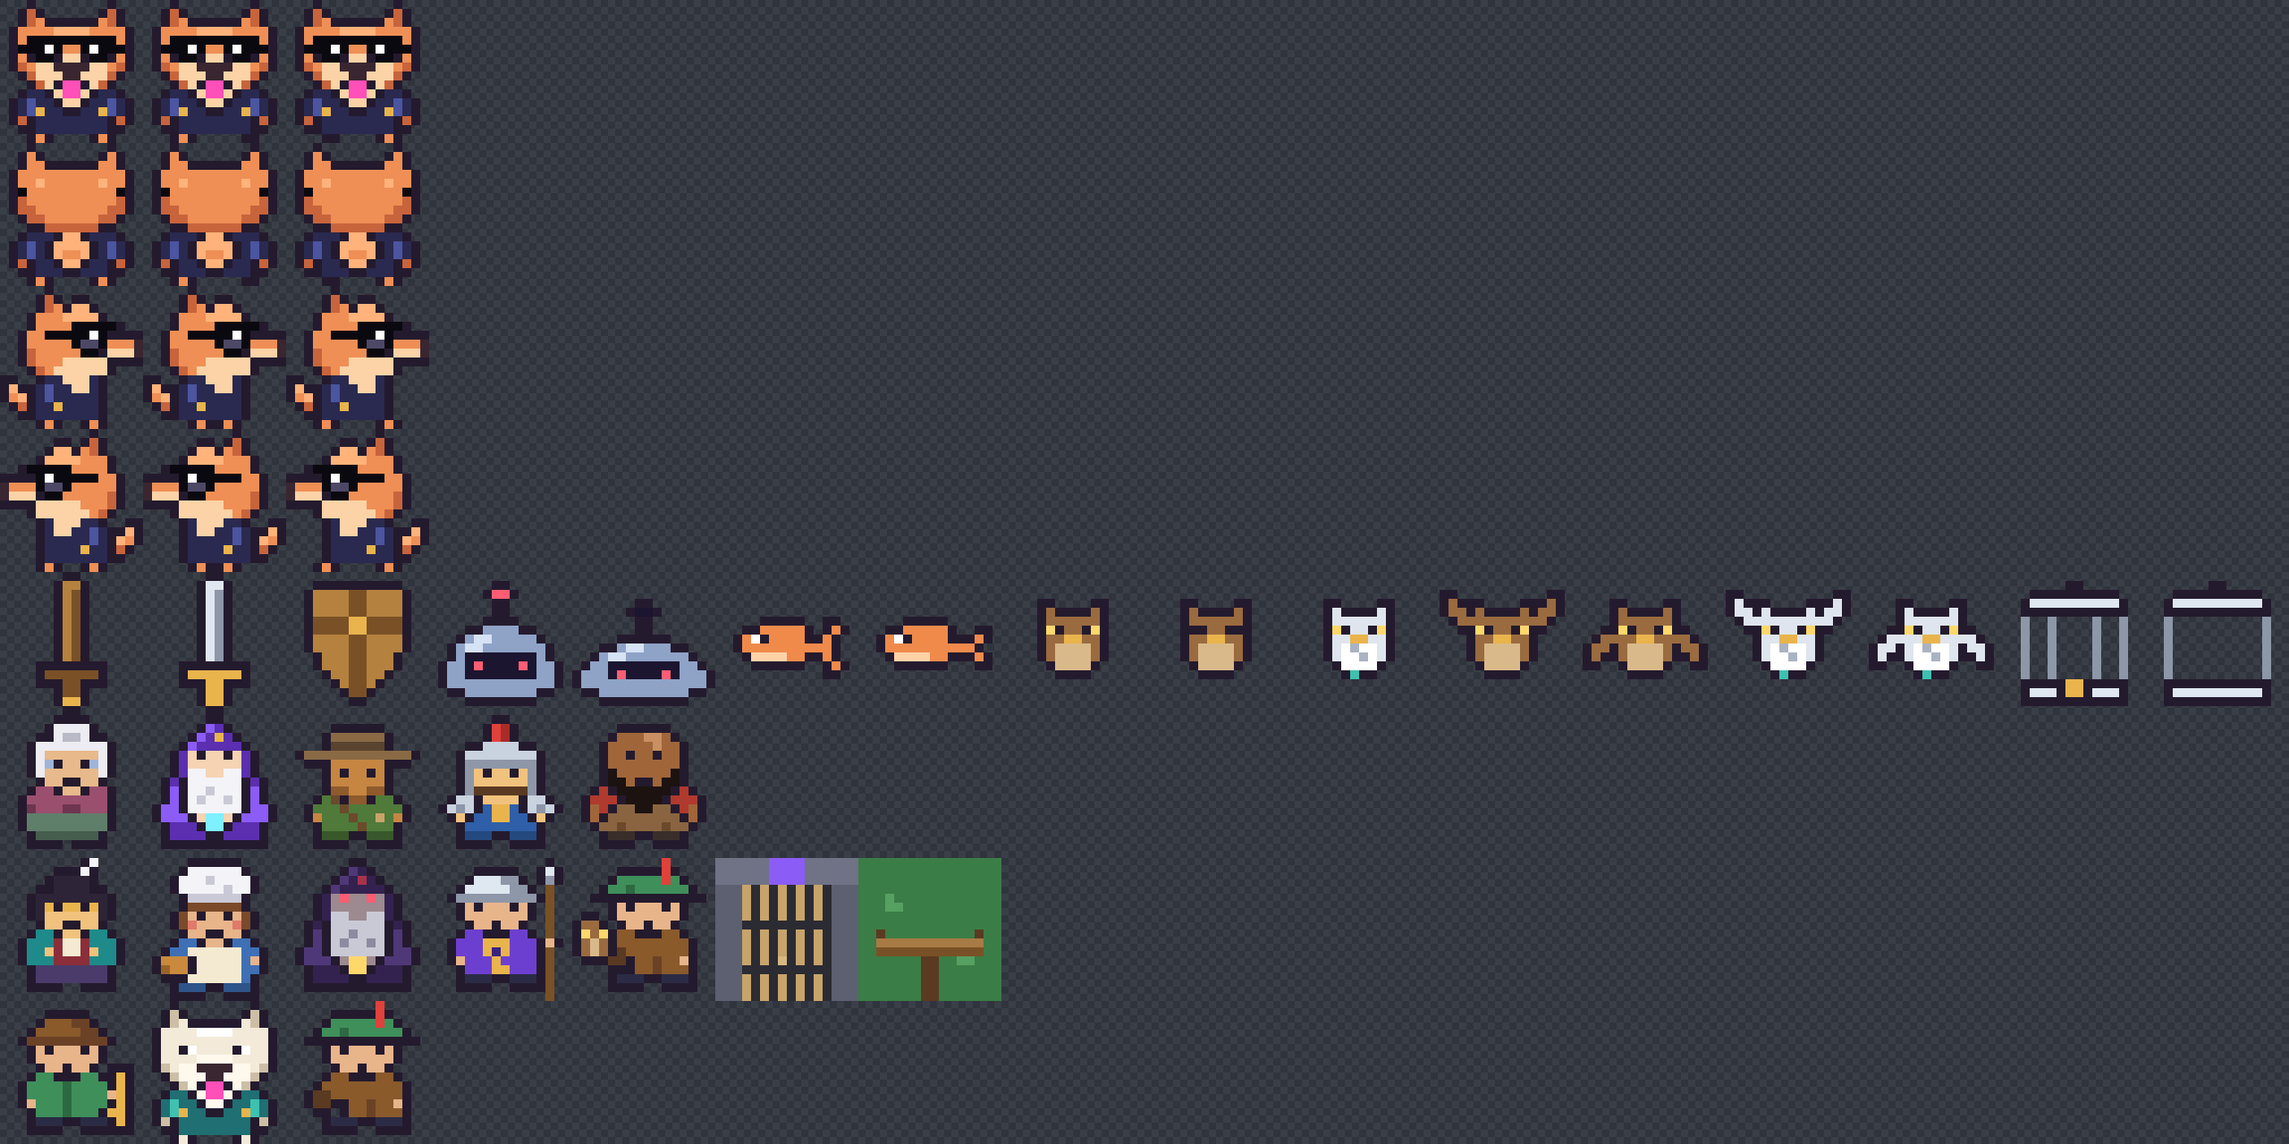
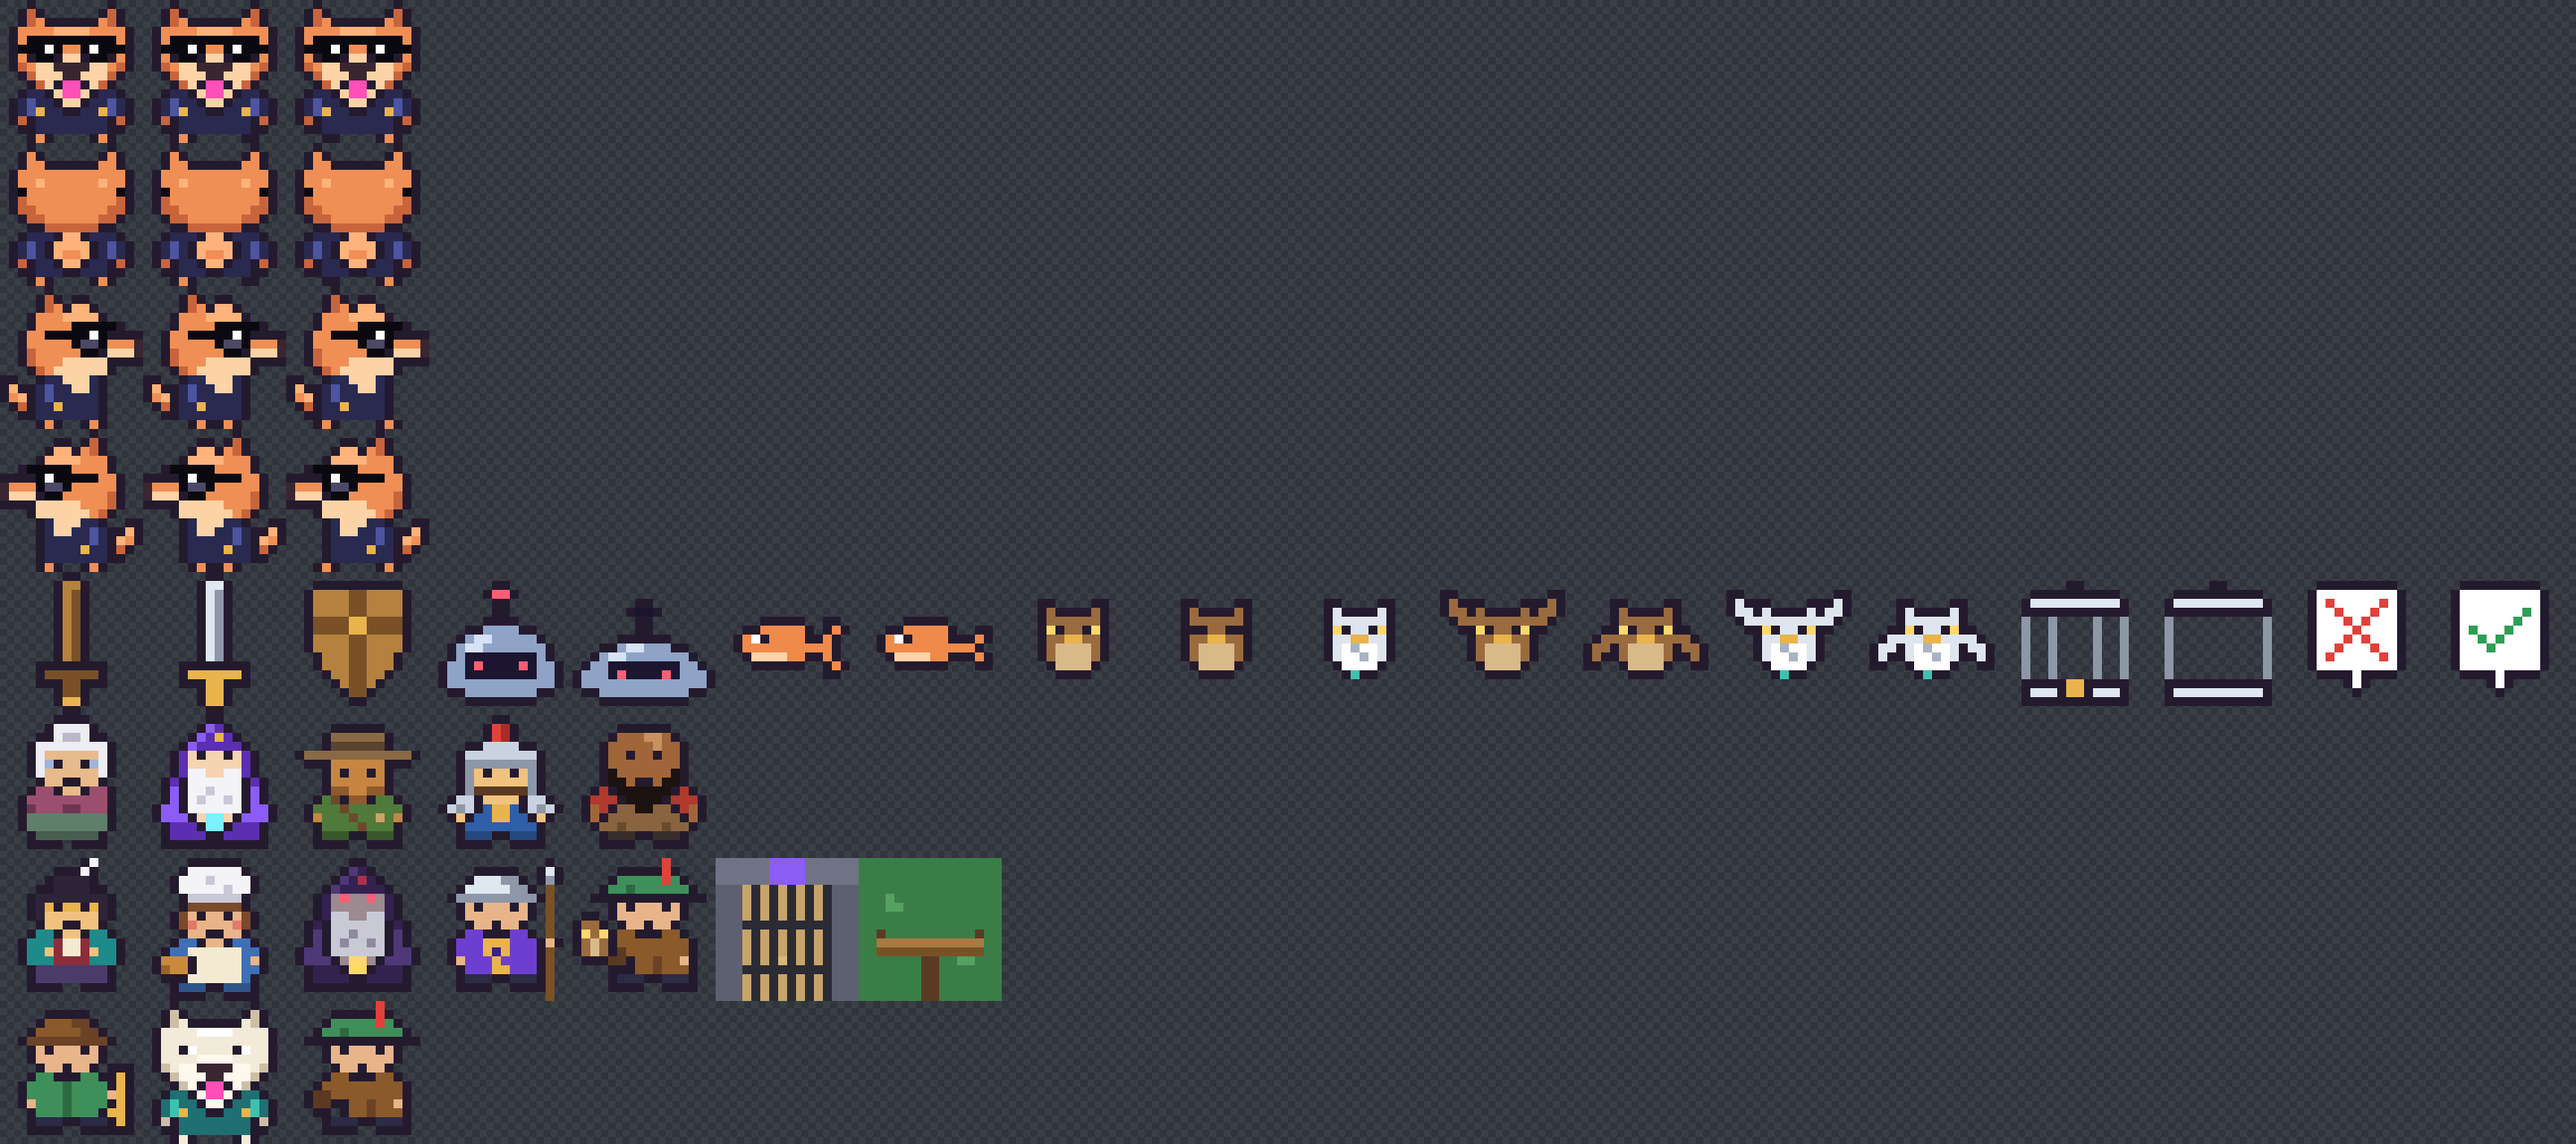
feat(game): an owl sent to the cage is followed there, and the keeper answers it
The game's view follows the Falconer's owl to the cage, where the keeper nods
and unlocks it, and then both owls back. The player's own owl is followed there
too, and is seen turned away with a shake of the head before it flies back.

Changed region(s): [[0.0, 0.0, 1.0, 1.0]]

diff --git a/app/src/game/scene.ts b/app/src/game/scene.ts
@@ -8,6 +8,7 @@ import { KNIGHT_QUOTA, defeated, hasSteel, type MonsterKind } from './quest-mach
 import { houseStage, type HouseStage } from './house-machine.ts'
 import { mochisOwlFound, owlAtLeast, owlStage } from './owl-machine.ts'
 import { catchOwl, readAviarySign, visitCage, visitPerch } from './owl-story.ts'
+import { OWL_TOOLS } from './owl.ts'
 import { CAGE_FLIGHT_MS, FLIGHT_MS, type PerchPhase } from './perch.ts'
 import {
   currentLetter,
@@ -122,6 +123,8 @@ const ITEM = {
   mochisOwlWingsDown: 13,
   cage: 14,
   cageOpen: 15,
+  keeperNo: 16,
+  keeperYes: 17,
 }
 
 /** Each kind of owl's frames: sitting, and with its wings up and down, which a flight swaps to make it flap. */
@@ -138,6 +141,12 @@ const OWL_SEAT = { x: 5, y: -8, hop: 14 }
 
 /** Mochi's owl rides on the dog's other side, and on the same shoulder of Mochi once it's back with them. */
 const MOCHIS_OWL_SEAT = { x: -5, y: -8 }
+
+/** Where an owl lands on the cage's roof, from the middle of the cage. */
+const CAGE_ROOF = { x: 0, y: -9 }
+
+/** The keeper's answer to an owl: where it shows above the keeper, and their nod or shake of the head. */
+const KEEPER_ANSWER = { lift: 14, nod: 3, shake: 2, ms: 90 }
 
 /** Where the Falconer's owl sits on their glove, from the middle of the Falconer. */
 const FALCONERS_GLOVE = { x: -6, y: 0 }
@@ -416,7 +425,7 @@ export class KingdomScene extends Phaser.Scene {
   /** The Falconer's owl in flight. On the glove it is part of the Falconer's own picture. */
   private falconersOwl: Phaser.GameObjects.Image | undefined
   /** How far the Falconer's owl's errand had got when the scene last looked. */
-  private cagePhase: 'out' | 'back' | 'done' | null = null
+  private cagePhase: 'out' | 'opening' | 'back' | 'done' | null = null
   private monsters: Monster[] = []
   private fish: Fish[] = []
   private phish: Phish[] = []
@@ -711,17 +720,28 @@ export class KingdomScene extends Phaser.Scene {
     const glove = { x: falconer.sprite.x + FALCONERS_GLOVE.x, y: falconer.sprite.y + FALCONERS_GLOVE.y }
     const curve = { lift: OWL_FLIGHT.lift, sway: OWL_FLIGHT.swoop }
 
+    const moving = matchMedia('(prefers-reduced-motion: no-preference)').matches
+
+    // Back on the glove, the owl is part of the Falconer's picture again, and the game looks at the dog.
     const land = () => {
       falconersOwl.setVisible(false)
       falconer.sprite.setFrame(NPC_FRAME.falconer)
+      this.follow()
     }
 
     if (phase === 'out') {
       falconer.sprite.setFrame(FALCONER_BARE_FRAME)
       falconersOwl.setPosition(glove.x, glove.y).setVisible(true)
-      this.glide(falconersOwl, () => ({ x: cage.x, y: cage.y }), CAGE_FLIGHT_MS.out, curve)
-    } else if (phase === 'back' || (phase === 'done' && before === 'out')) {
-      // With motion off nothing waits between the owls setting off and landing, so `back` can go unseen.
+
+      // The game follows the owl to the cage, to see the keeper answer it.
+      if (moving) this.follow(falconersOwl)
+
+      this.glide(falconersOwl, () => this.cageRoof(), CAGE_FLIGHT_MS.out, curve)
+    } else if (phase === 'opening') {
+      cage.setFrame(ITEM.cageOpen)
+      this.keeperAnswers(true)
+    } else if (phase === 'back' || (phase === 'done' && before !== 'back')) {
+      // With motion off nothing waits between the owls setting off and landing, so a phase can go unseen.
       cage.setFrame(ITEM.cageOpen)
       this.mochisOwlAloft = true
       this.glide(falconersOwl, () => glove, CAGE_FLIGHT_MS.back, curve, land)
@@ -734,7 +754,7 @@ export class KingdomScene extends Phaser.Scene {
           this.mochisOwlAloft = false
         },
       )
-    } else if (phase === null && before === 'out') {
+    } else if (phase === null && (before === 'out' || before === 'opening')) {
       // The errand came to nothing, so the owl comes back to the glove alone.
       this.glide(falconersOwl, () => glove, OWL_FLIGHT.homeMs, curve, land)
     }
@@ -851,9 +871,18 @@ export class KingdomScene extends Phaser.Scene {
     const owl = this.owl
     const spot = this.world.perches.find((candidate) => candidate.tool === perch?.tool)
 
+    // Whatever became of a flight the game followed, it looks at the dog again once the errand is over.
+    if (phase === null || phase === 'done') this.follow()
+
     if (!owl || !spot || !matchMedia('(prefers-reduced-motion: no-preference)').matches) return
 
     const bar = this.barOf(spot)
+
+    if (spot.tool === OWL_TOOLS.openCage) {
+      this.flyToCage(phase, owl, bar)
+
+      return
+    }
 
     if (phase === 'out') {
       // Up and away, past the top of what the player can see.
@@ -865,6 +894,70 @@ export class KingdomScene extends Phaser.Scene {
     } else if (phase === 'back') {
       this.glide(owl, () => bar, FLIGHT_MS.back, { sway: OWL_FLIGHT.swoop })
     }
+  }
+
+  /**
+   * The cage is a place in the grounds, so the owl sent to open it is seen all the way: the game follows it
+   * to the cage's roof, the keeper shakes their head, and it flies back to its perch.
+   */
+  private flyToCage(phase: PerchPhase | null, owl: Phaser.GameObjects.Image, bar: { x: number; y: number }) {
+    const curve = { lift: OWL_FLIGHT.lift, sway: OWL_FLIGHT.swoop }
+
+    if (phase === 'out') {
+      this.follow(owl)
+      this.glide(owl, () => this.cageRoof(), CAGE_FLIGHT_MS.out, { ...curve, sway: -curve.sway })
+    } else if (phase === 'turned') {
+      this.keeperAnswers(false)
+    } else if (phase === 'back') {
+      this.glide(
+        owl,
+        () => bar,
+        CAGE_FLIGHT_MS.back,
+        curve,
+        () => this.follow(),
+      )
+    }
+  }
+
+  /** Where an owl lands on the cage, in the game's pixels. */
+  private cageRoof() {
+    const at = this.world.mochisOwl
+
+    return { x: center(at.x) + CAGE_ROOF.x, y: center(at.y) + CAGE_ROOF.y }
+  }
+
+  /** Points the game's view at a bird in flight, or, with none, back at the dog. */
+  private follow(bird?: Phaser.GameObjects.Image) {
+    const target = bird ?? this.player
+
+    if (target) this.cameras.main.startFollow(target, true)
+  }
+
+  /**
+   * The keeper answers an owl at the cage: a nod and a tick, or a shake of the head and a cross. It is
+   * motion, so it is only shown to players who have asked for motion.
+   */
+  private keeperAnswers(yes: boolean) {
+    const keeper = this.npcs.find((npc) => npc.npcId === 'keeper')
+
+    if (!keeper || !matchMedia('(prefers-reduced-motion: no-preference)').matches) return
+
+    const home = { x: center(keeper.x), y: center(keeper.y) }
+
+    const answer = this.add
+      .image(home.x, home.y - KEEPER_ANSWER.lift, 'items', yes ? ITEM.keeperYes : ITEM.keeperNo)
+      .setDepth(20)
+
+    this.time.delayedCall(CAGE_FLIGHT_MS.keeper, () => answer.destroy())
+
+    this.tweens.add({
+      targets: keeper.sprite,
+      ...(yes ? { y: home.y + KEEPER_ANSWER.nod } : { x: home.x + KEEPER_ANSWER.shake }),
+      duration: KEEPER_ANSWER.ms,
+      yoyo: true,
+      repeat: 2,
+      onComplete: () => keeper.sprite.setPosition(home.x, home.y),
+    })
   }
 
   /** Where the owl's feet meet a perch's crossbar, in the game's pixels. */

diff --git a/app/src/game/owl-story.ts b/app/src/game/owl-story.ts
@@ -549,9 +549,11 @@ const watch = (ms: number) =>
 export async function flyOwl(tool: OwlTool) {
   const id = identity()
   const flew = flies()
+  // The cage is a place in the grounds, so an owl sent to open it is followed there and back.
+  const toCage = tool === OWL_TOOLS.openCage
   sfx('hoot')
   quest.perchPhase('out')
-  const away = watch(FLIGHT_MS.out + FLIGHT_MS.away)
+  const away = watch(toCage ? CAGE_FLIGHT_MS.out : FLIGHT_MS.out + FLIGHT_MS.away)
   const [sent] = await Promise.all([sendOwl({ method: 'tools/call', tool, ...argsFor(tool) }), away])
 
   if (!sent.ok) {
@@ -573,13 +575,19 @@ export async function flyOwl(tool: OwlTool) {
 
   // The owl calls from out of sight just before it comes back into view. With motion off it never left.
   // It keeps quiet when the errand is already being heard: the bell tolls it home.
-  if (flew && !heard) {
+  if (flew && !heard && !toCage) {
     sfx('hoot')
     await watch(FLIGHT_MS.call)
   }
 
+  // At the cage the keeper is seen to shake their head at an owl Pomerium refused.
+  if (toCage && outcome.kind === 'refused') {
+    quest.perchPhase('turned')
+    await watch(CAGE_FLIGHT_MS.keeper)
+  }
+
   quest.perchPhase('back')
-  await watch(FLIGHT_MS.back)
+  await watch(toCage ? CAGE_FLIGHT_MS.back : FLIGHT_MS.back)
   logFlight(flight, `tools/call ${tool}`, id)
 
   switch (outcome.kind) {
@@ -663,14 +671,15 @@ export function leaveFalconersErrand() {
 
 /**
  * The Falconer sends their own owl to the cage: the same tool call the player's owl was refused, made on
- * the Falconer's behalf. It flies out while the request does. If Pomerium allows it the keeper opens the
- * cage, and both owls fly back: the Falconer's to the glove, Mochi's to the player. Then the call can be read.
+ * the Falconer's behalf. It flies to the cage while the request does, and the game follows it there. If
+ * Pomerium allows the call the keeper opens the cage, and both owls fly back: the Falconer's to the glove,
+ * Mochi's to the player. Then the call can be read.
  */
 export async function flyFalconersOwl() {
   sfx('hoot')
   quest.sendFalconersOwl()
 
-  const [sent] = await Promise.all([sendFalconersOwl(), watch(CAGE_FLIGHT_MS.out + FLIGHT_MS.away)])
+  const [sent] = await Promise.all([sendFalconersOwl(), watch(CAGE_FLIGHT_MS.out)])
 
   if (!sent.ok) {
     leaveFalconersErrand()
@@ -699,10 +708,11 @@ export async function flyFalconersOwl() {
     return
   }
 
-  // The cage is out of sight from the Falconer's side of the grounds, so it is heard: the lock, then wings.
+  // The game has followed the owl to the cage, so the keeper is seen to read its papers and turn the key.
+  quest.cageOpens()
   sfx('gateOpen')
-  quest.toast('Across the grounds, a lock clicks open', 'info')
-  await watch(FLIGHT_MS.heard)
+  quest.toast('The keeper turns the key, and the cage swings open', 'info')
+  await watch(CAGE_FLIGHT_MS.keeper)
   quest.sendOwl({ type: 'MOCHIS_OWL_FOUND' })
   sfx('flutter')
   quest.falconersOwlReturns()

diff --git a/app/src/game/perch.ts b/app/src/game/perch.ts
@@ -57,9 +57,10 @@ export type OwlFlight = {
 /**
  * How far an errand at a perch has got. The owl sits on the perch while the player is asked whether to
  * send it, flies out of sight with the request, then comes back to the perch with the answer. Then the
- * errand is done, and can be read.
+ * errand is done, and can be read. An owl sent to the cage is watched all the way there, so it can also be
+ * seen `turned` away by the cage's keeper before it flies back.
  */
-export type PerchPhase = 'asking' | 'out' | 'back' | 'done'
+export type PerchPhase = 'asking' | 'out' | 'turned' | 'back' | 'done'
 
 /**
  * How long each part of the owl's flight takes to watch, in milliseconds, for players who have motion on:
@@ -70,5 +71,8 @@ export type PerchPhase = 'asking' | 'out' | 'back' | 'done'
  */
 export const FLIGHT_MS = { out: 1000, away: 1100, heard: 1000, call: 400, back: 900 } as const
 
-/** How long the Falconer's owl takes to fly to the cage, and how long it and Mochi's owl take to fly back. */
-export const CAGE_FLIGHT_MS = { out: 1400, back: 1600 } as const
+/**
+ * How long a flight to the cage takes to watch: there, the moment the keeper takes to answer (a shake of the
+ * head, or the key in the lock), and back again. The game follows the owl all the way, so these are longer.
+ */
+export const CAGE_FLIGHT_MS = { out: 1800, keeper: 1200, back: 1800 } as const

diff --git a/app/src/game/store.ts b/app/src/game/store.ts
@@ -89,7 +89,7 @@ export interface FalconersErrand {
   /** The flight, once the owl is back: the MCP request and Pomerium's answer. */
   readonly flight: OwlFlight | null
   /** How far the errand has got: the scene flies the Falconer's owl, and Mochi's, to match. */
-  readonly phase: 'out' | 'back' | 'done'
+  readonly phase: 'out' | 'opening' | 'back' | 'done'
   /** The player asked to read what the owl brought back, so its panel is open. */
   readonly explained: boolean
 }
@@ -392,6 +392,10 @@ export const quest = {
       menuOpen: false,
       journalOpen: false,
     }),
+  /** The Falconer's owl is at the cage, and the keeper unlocks it. */
+  cageOpens: () => {
+    if (state.falconersErrand) update({ falconersErrand: { ...state.falconersErrand, phase: 'opening' } })
+  },
   /** The cage is open: the Falconer's owl and Mochi's fly back. */
   falconersOwlReturns: () => {
     if (state.falconersErrand) update({ falconersErrand: { ...state.falconersErrand, phase: 'back' } })

diff --git a/app/src/game/sheets.ts b/app/src/game/sheets.ts
@@ -1,7 +1,7 @@
 // Generated by art/sprites.mjs; don't edit. Each URL carries a hash of the file's contents.
 export const SHEETS = {
   dog: '/assets/dog.png?v=0be57c5f01',
-  items: '/assets/items.png?v=652c8cd7ab',
+  items: '/assets/items.png?v=e2b24c09e2',
   npcs: '/assets/npcs.png?v=b437919ff6',
   tiles: '/assets/tiles.png?v=7f01cebc24',
   splash: '/assets/splash.png?v=40d2470162',
